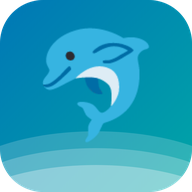
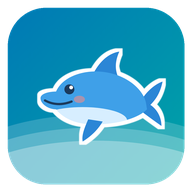
Set the privacy policy and terms effective date to 2026-10-14
Rebuilt from the app repo (tool/build_site.py): effective dates filled
in, the terms' font example now names Barlow Condensed, and the site
icon uses the redrawn dolphin.

Claude-Session: https://claude.ai/code/session_01BadxGSpiqydrj1DEW3pPsV

diff --git a/terms/index.html b/terms/index.html
@@ -42,7 +42,7 @@ footer{color:var(--muted);font-size:13px;text-align:center;padding:24px 16px}
 <main>
 <a class="lang" href="en/">English</a><article class="doc"><h1>이용약관</h1>
 <ul>
-<li><strong>시행일</strong>: 2026년 10월 ○일
+<li><strong>시행일</strong>: 2026년 10월 14일
 <li><strong>운영자</strong>: MARI MIMI · 대표자 서민희 · 사업자등록번호 546-14-00309 · 경기도 부천시 원미구 부천로245번길 33
 <li><strong>문의</strong>: <a href="mailto:helpswolfy@gmail.com">helpswolfy@gmail.com</a>
 </ul>
@@ -89,7 +89,7 @@ footer{color:var(--muted);font-size:13px;text-align:center;padding:24px 16px}
 <h2>제8조 (지식재산권)</h2>
 <ol>
 <li>서비스와 앱에 포함된 디자인, 문구, 소프트웨어의 권리는 회사 또는 정당한 권리자에게 있습니다.
-<li>앱에 사용한 오픈소스 소프트웨어와 글꼴(예: Noto Color Emoji, SIL Open Font License 1.1)의 권리는 각 권리자에게 있으며, 나 → 오픈소스 라이선스에서 확인할 수 있습니다.
+<li>앱에 사용한 오픈소스 소프트웨어와 글꼴(예: Barlow Condensed, SIL Open Font License 1.1)의 권리는 각 권리자에게 있으며, 나 → 오픈소스 라이선스에서 확인할 수 있습니다.
 <li>이용자가 만든 수영 기록과 공유 카드 이미지의 권리는 이용자에게 있습니다.
 </ol>
 <h2>제9조 (책임의 제한)</h2>
@@ -106,7 +106,7 @@ footer{color:var(--muted);font-size:13px;text-align:center;padding:24px 16px}
 <li>서비스와 관련한 분쟁은 먼저 문의 이메일로 협의해 해결하도록 노력하며, 소송이 필요하면 「민사소송법」에 따른 관할 법원에서 해결합니다.
 </ol>
 <h2>부칙</h2>
-<p>이 약관은 2026년 10월 ○일부터 시행합니다.</p></article>
+<p>이 약관은 2026년 10월 14일부터 시행합니다.</p></article>
 </main>
 <footer>© MARI MIMI · <a href="mailto:helpswolfy@gmail.com">helpswolfy@gmail.com</a></footer>
 </body>

diff --git a/terms/en/index.html b/terms/en/index.html
@@ -42,7 +42,7 @@ footer{color:var(--muted);font-size:13px;text-align:center;padding:24px 16px}
 <main>
 <a class="lang" href="../">한국어</a><article class="doc"><h1>Terms of Service</h1>
 <ul>
-<li><strong>Effective date</strong>: October ○○, 2026
+<li><strong>Effective date</strong>: October 14, 2026
 <li><strong>Operator</strong>: MARI MIMI · CEO Seo Min-hee · Business registration no. 546-14-00309 · 33, Bucheon-ro 245beon-gil, Wonmi-gu, Bucheon-si, Gyeonggi-do, Republic of Korea
 <li><strong>Contact</strong>: <a href="mailto:helpswolfy@gmail.com">helpswolfy@gmail.com</a>
 </ul>
@@ -95,7 +95,7 @@ footer{color:var(--muted);font-size:13px;text-align:center;padding:24px 16px}
 <h2>8. Intellectual property</h2>
 <ol>
 <li>Rights to the designs, text and software in the Service belong to the Company or their rightful owners.
-<li>Open-source software and fonts used in the app (such as Noto Color Emoji under the SIL Open Font License 1.1) belong to their owners
+<li>Open-source software and fonts used in the app (such as Barlow Condensed under the SIL Open Font License 1.1) belong to their owners
  and are listed under Me → Open-source licenses.
 <li>You own the swims you record and the share card images you create.
 </ol>

diff --git a/privacy/index.html b/privacy/index.html
@@ -43,7 +43,7 @@ footer{color:var(--muted);font-size:13px;text-align:center;padding:24px 16px}
 <a class="lang" href="en/">English</a><article class="doc"><h1>개인정보처리방침</h1>
 <p>MARI MIMI(이하 "회사")는 스월피(SWOLFY) 앱(이하 "앱")을 운영하면서 「개인정보 보호법」 등 관련 법령을 지키고, 이용자의 개인정보를 보호하기 위해 다음과 같이 개인정보처리방침을 둡니다.</p>
 <ul>
-<li><strong>시행일</strong>: 2026년 10월 ○일
+<li><strong>시행일</strong>: 2026년 10월 14일
 <li><strong>운영자</strong>: MARI MIMI · 대표자 서민희 · 사업자등록번호 546-14-00309
 <li><strong>주소</strong>: 경기도 부천시 원미구 부천로245번길 33
 <li><strong>문의</strong>: <a href="mailto:helpswolfy@gmail.com">helpswolfy@gmail.com</a>

diff --git a/privacy/en/index.html b/privacy/en/index.html
@@ -43,7 +43,7 @@ footer{color:var(--muted);font-size:13px;text-align:center;padding:24px 16px}
 <a class="lang" href="../">한국어</a><article class="doc"><h1>Privacy Policy</h1>
 <p>MARI MIMI (the "Company") operates the SWOLFY app (the "App") and protects your personal information in line with applicable laws, including the Korean Personal Information Protection Act.</p>
 <ul>
-<li><strong>Effective date</strong>: October ○○, 2026
+<li><strong>Effective date</strong>: October 14, 2026
 <li><strong>Operator</strong>: MARI MIMI · CEO Seo Min-hee · Business registration no. 546-14-00309
 <li><strong>Address</strong>: 33, Bucheon-ro 245beon-gil, Wonmi-gu, Bucheon-si, Gyeonggi-do, Republic of Korea
 <li><strong>Contact</strong>: <a href="mailto:helpswolfy@gmail.com">helpswolfy@gmail.com</a>
